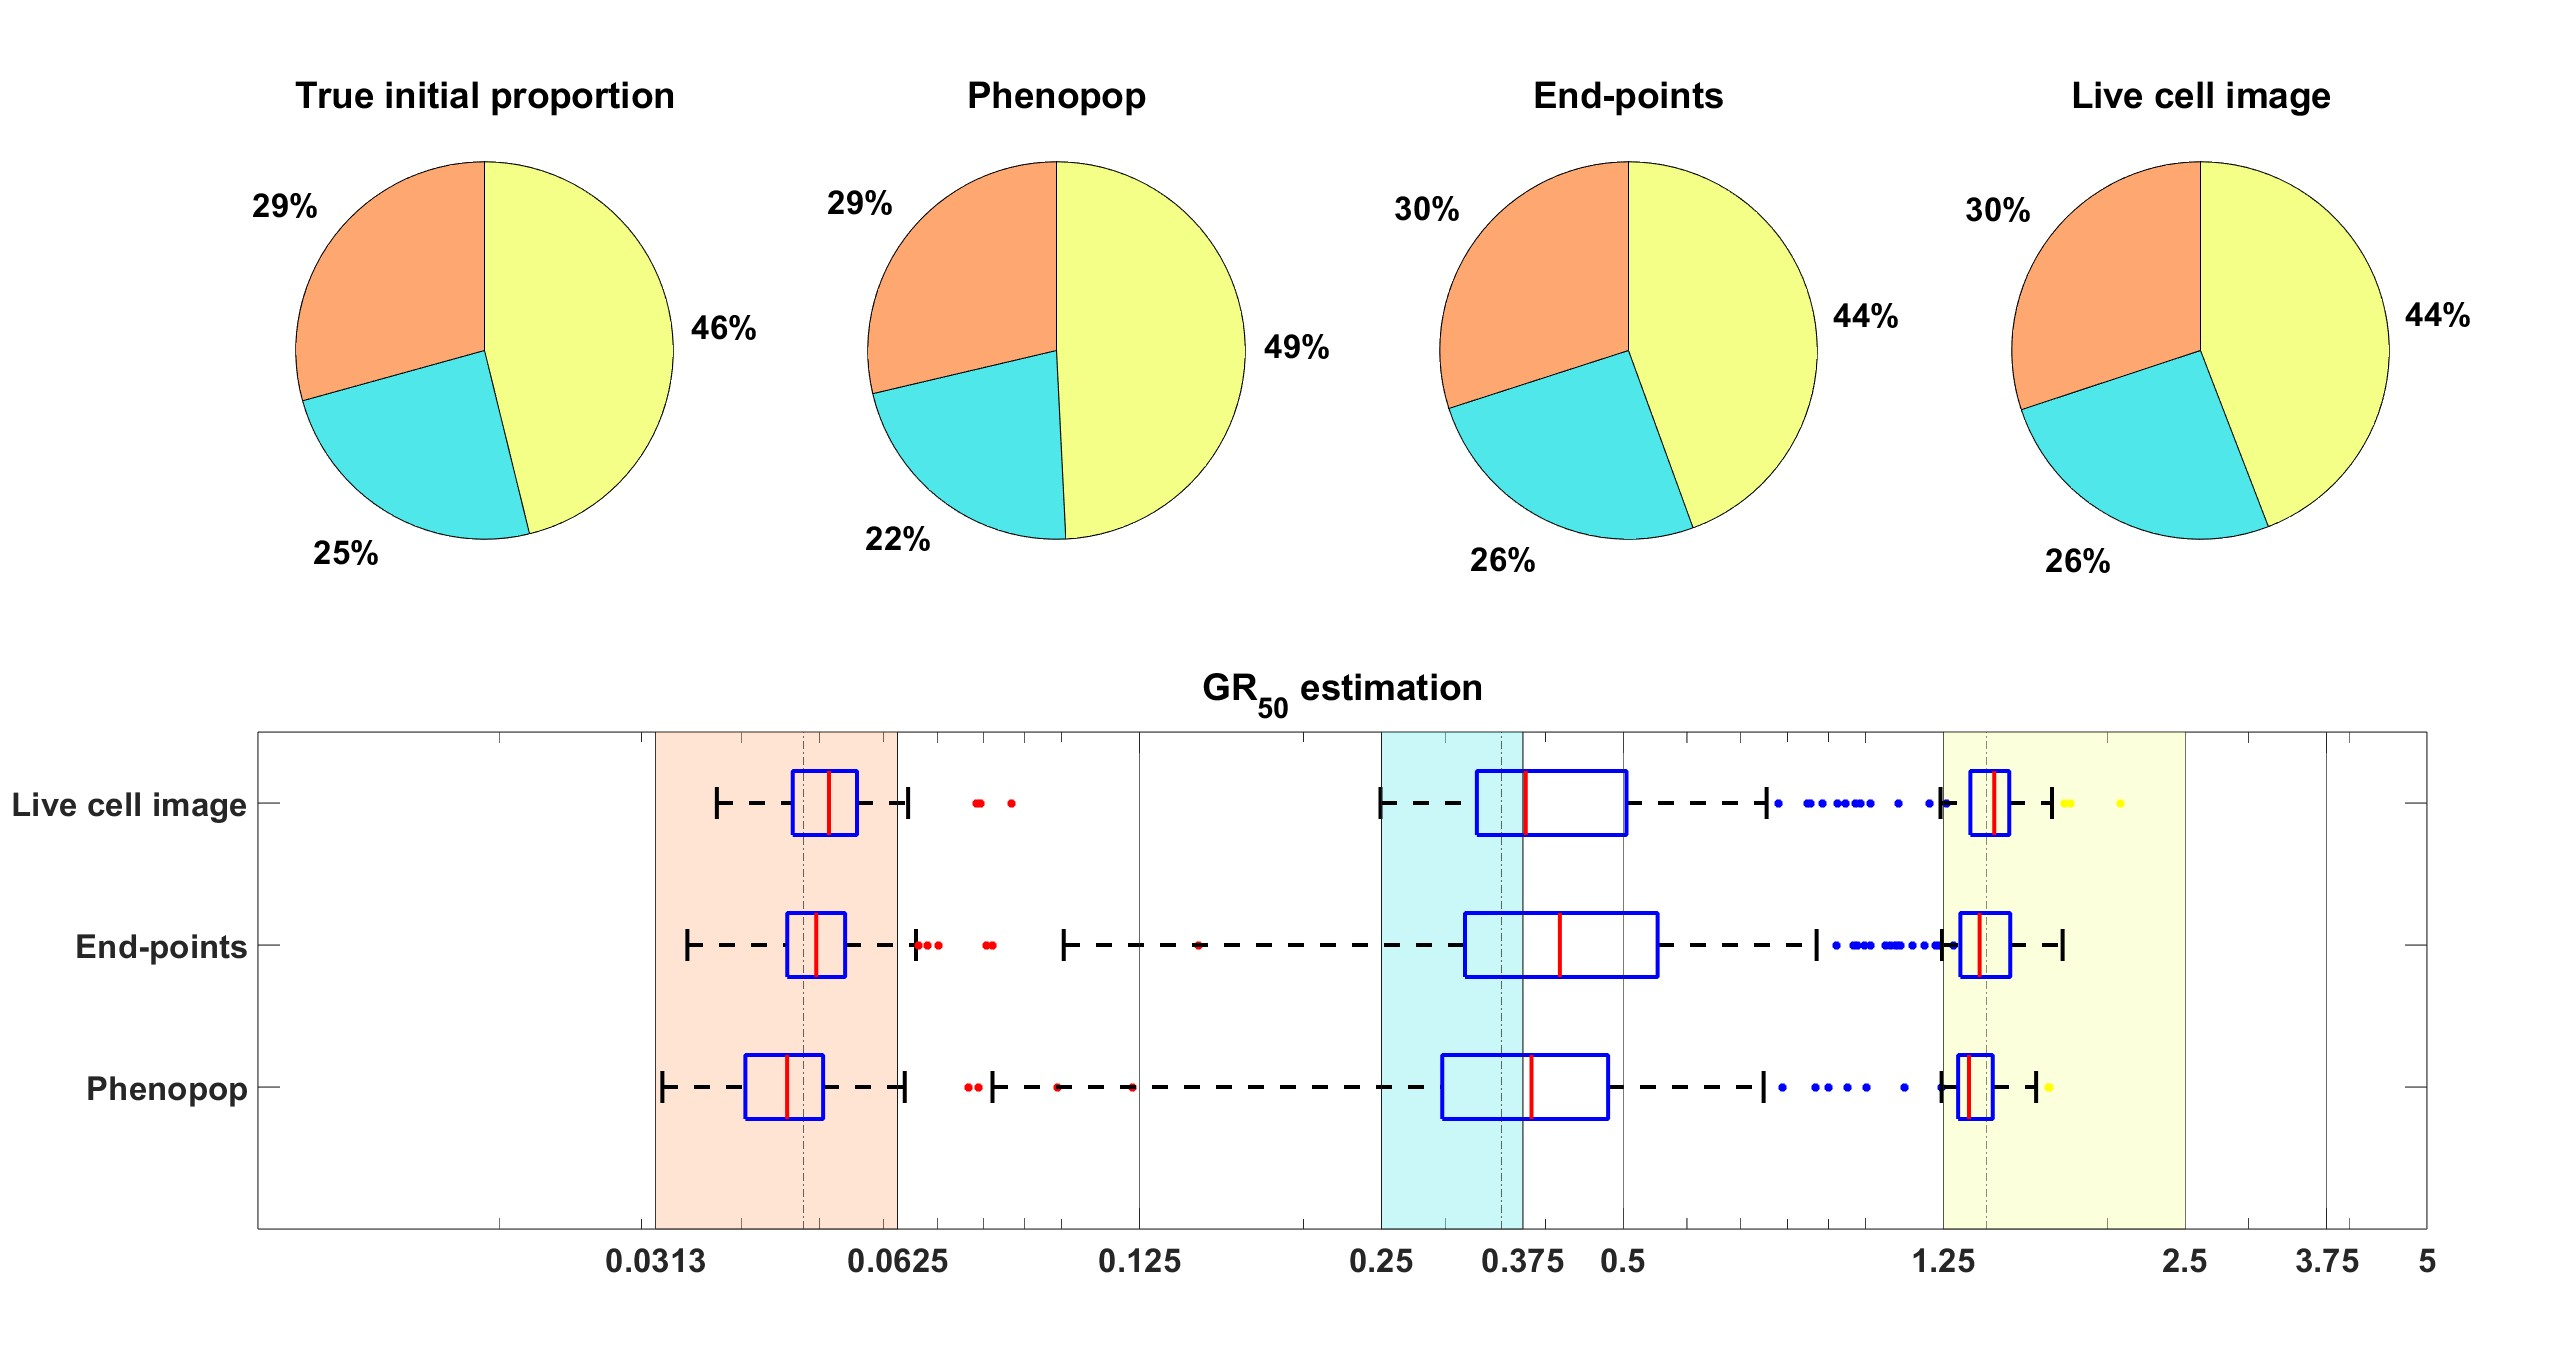
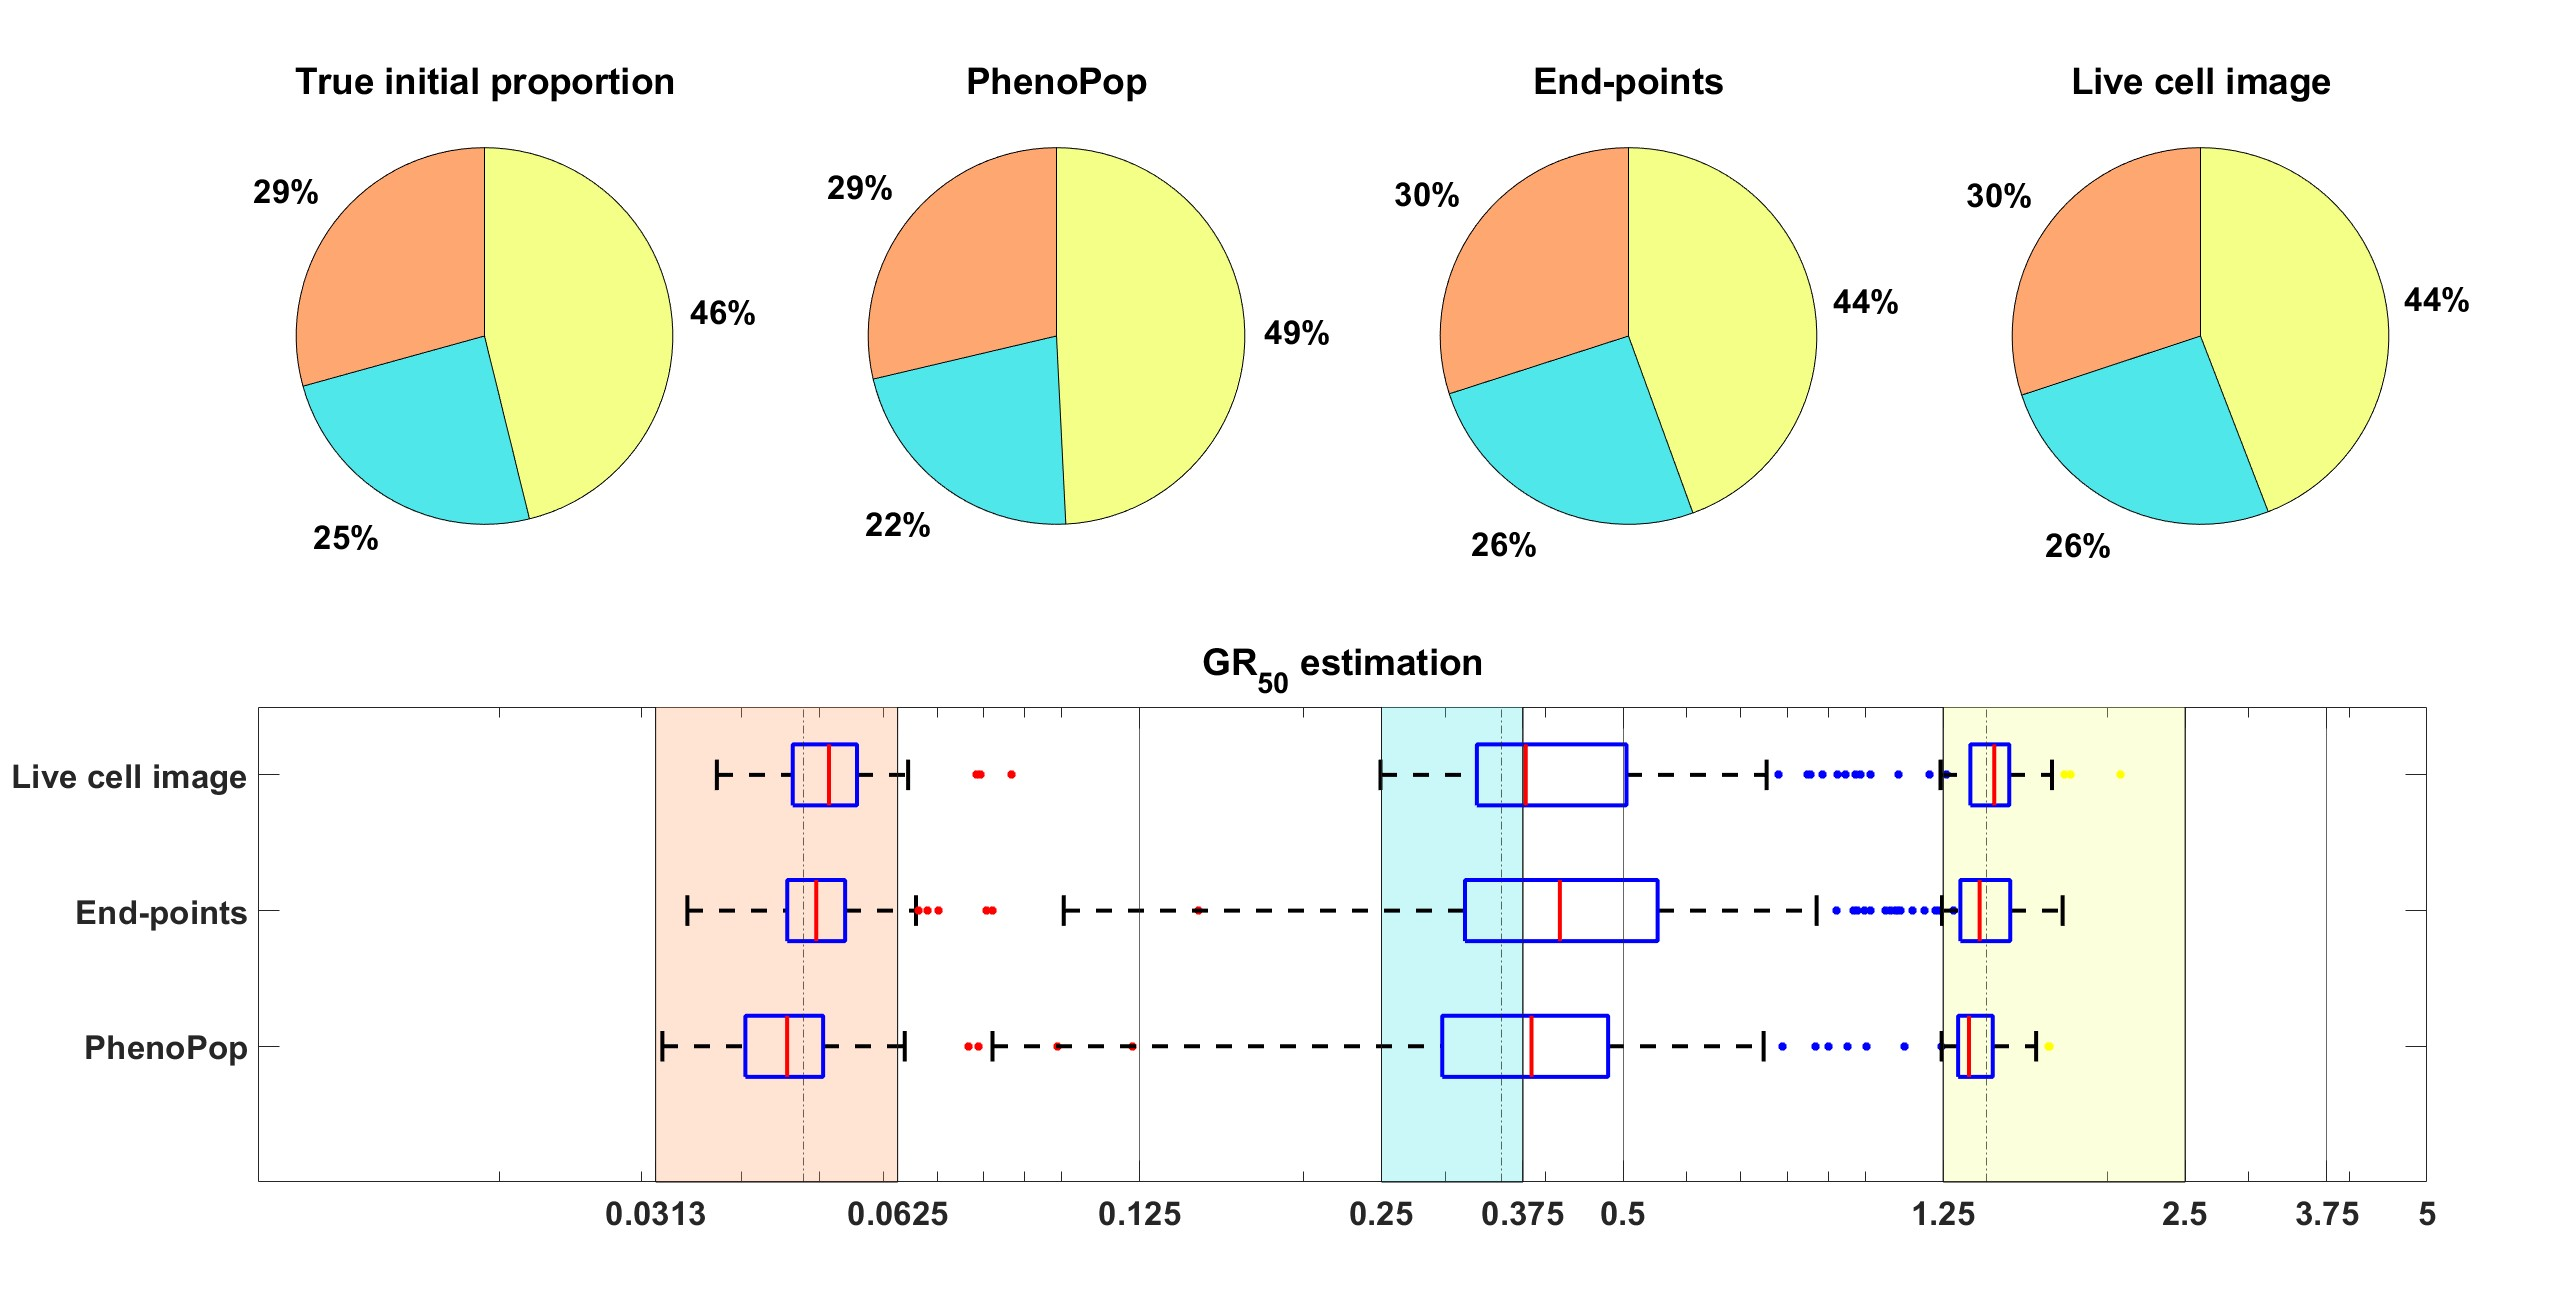
Fixed some figures
Fix the name on 3 subpopulation experiment.
Fix the scale on the point estimation error.

diff --git a/In silico experiment/2 subpopulation experiments/plot_pe_error.m b/In silico experiment/2 subpopulation experiments/plot_pe_error.m
@@ -8,7 +8,7 @@
     hl_indi_error = [];
     dyn_indi_error = [];
     sto_indi_error = [];
-    
+    lam_error = [];
     
     
     for idx = 41:70
@@ -27,6 +27,8 @@
         hl_error = [hl_error,get_acc(opt_xx_hl(1:end-2),theta_PP)];
         dyn_error = [dyn_error,get_acc(opt_xx_dyn,Info.theta)];
         sto_error = [sto_error,get_acc(opt_xx_sto,Info.theta)];
+        lam_error = [lam_error,get_acc(opt_xx_hl(1),Info.theta(2)-Info.theta(3))];
+        
     
         hl_indi_error = [hl_indi_error;get_log_acc(hl_indi,True_indi)];
         dyn_indi_error = [dyn_indi_error;get_log_acc(dyn_indi,True_indi)];
@@ -36,8 +38,8 @@
     
     end
     
-    save('Result\PE30.mat','hl_error','dyn_error','sto_error', ...
-        'hl_indi_error',"dyn_indi_error","sto_indi_error")
+    % save('Result\PE30.mat','hl_error','dyn_error','sto_error', ...
+    %     'hl_indi_error',"dyn_indi_error","sto_indi_error")
 
 
 %% Load the result
@@ -48,10 +50,11 @@
 %% Plot the abs error of every parameters
 
     ax = gca;
-    ax.XLim = [-1,12];
+    ax.XLim = [-1,13];
     ax.YLim = [-0.3,10];
+    ax.YScale = 'log';
     ax.FontName = 'Arial';
-    xticks([0,1,2,3,4,5,6,7,8,9,10,11])
+    xticks([0,1,2,3,4,5,6,7,8,9,10,11,12])
     xticklabels({'p','\beta_s','\nu_s','b_s','E_s','m_s','\beta_r','\nu_r','b_r','E_r','m_r','c'})
     ax.FontSize = 25;
     ax.FontWeight = 'bold';
@@ -70,7 +73,10 @@
     %     s = scatter(ax,x,y,24,'filled','b');
     %     s.MarkerFaceAlpha = 0.5;
     end
-    
+    % y = [y,lam_error];
+    % x = [x,linspace(11.75,12.25,30)];
+    % group = [group,ones(1,30)];
+
     for i = 1:12 % Error from end-points
         y = [y,dyn_error(i,:)];
         x = [x,linspace(i-1-0.25,i-1+0.25,30)];
@@ -82,7 +88,7 @@
     s = gscatter(x,y,group,'rb','ox',12,'on','Parameters','Relative error');
     % s.MarkerFaceAlpha = 0.5;
     
-    yline(0,'LineWidth',3);
+    yline(1,'LineWidth',3);
 
 
 %% Plot log ratio error for the important parameters

diff --git a/In silico experiment/3 subpopulation experiments/ploting_multi.m b/In silico experiment/3 subpopulation experiments/ploting_multi.m
@@ -43,7 +43,7 @@ axhl.FontSize = 25;
 axhl.FontWeight = 'bold';
 axhl.Colormap = Color;
 
-title('Phenopop')
+title('PhenoPop')
 
 axdyn  = nexttile;
 
@@ -59,6 +59,9 @@ axsto  = nexttile;
 
 hsto   = pie(sto_p);
 set(hsto(2:2:end),'FontSize',25,'FontWeight','bold');
+axsto.FontSize = 25;
+axsto.FontWeight = 'bold';
+axsto.Colormap = Color;
 
 title('Live cell image')
 
@@ -102,9 +105,9 @@ for i = 1:num_sub_GE
     fill(GRi_xconf,GR_yconf,Color(i,:),'FaceAlpha',0.3)
 end
 
-bh1 = boxplot(Est_GR(1:3,:)',["Phenopop", "End-points", "Live cell image"],"orientation","horizontal",'Symbol','*r');
-bh2 = boxplot(Est_GR(4:6,:)',["Phenopop", "End-points", "Live cell image"],"orientation","horizontal",'Symbol','*b');
-bh3 = boxplot(Est_GR(7:9,:)',["Phenopop", "End-points", "Live cell image"],"orientation","horizontal",'Symbol','*y');
+bh1 = boxplot(Est_GR(1:3,:)',["PhenoPop", "End-points", "Live cell image"],"orientation","horizontal",'Symbol','*r');
+bh2 = boxplot(Est_GR(4:6,:)',["PhenoPop", "End-points", "Live cell image"],"orientation","horizontal",'Symbol','*b');
+bh3 = boxplot(Est_GR(7:9,:)',["PhenoPop", "End-points", "Live cell image"],"orientation","horizontal",'Symbol','*y');
 % boxplot(Est_GR(10:12,:)',["Phenopop model", "End Points model", "Live Cell Image model"],"orientation","horizontal",'Symbol','*g')
 
 set(bh1,'LineWidth',3)
